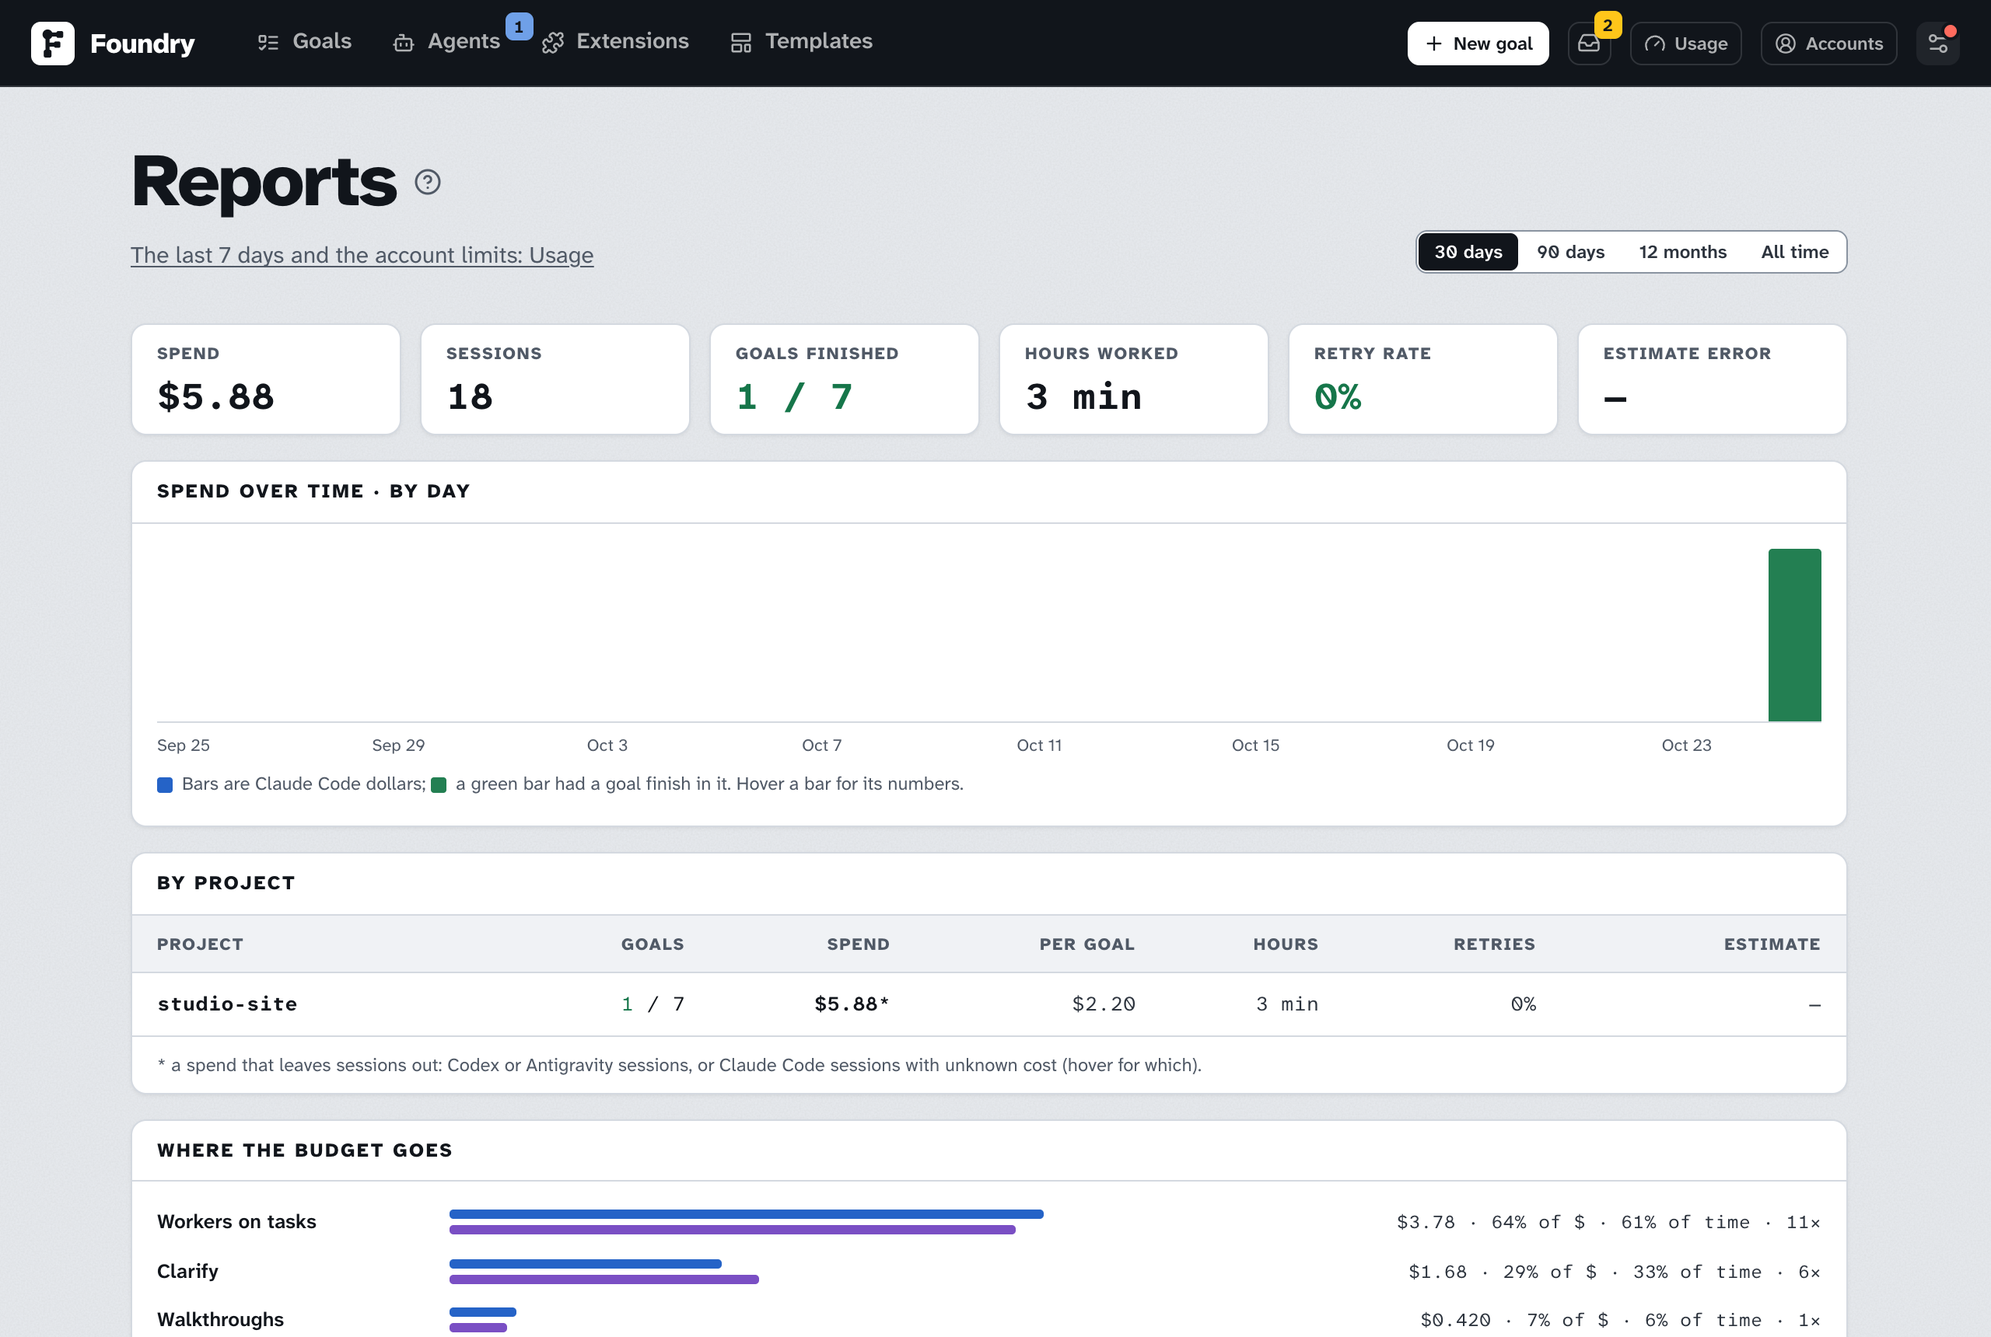
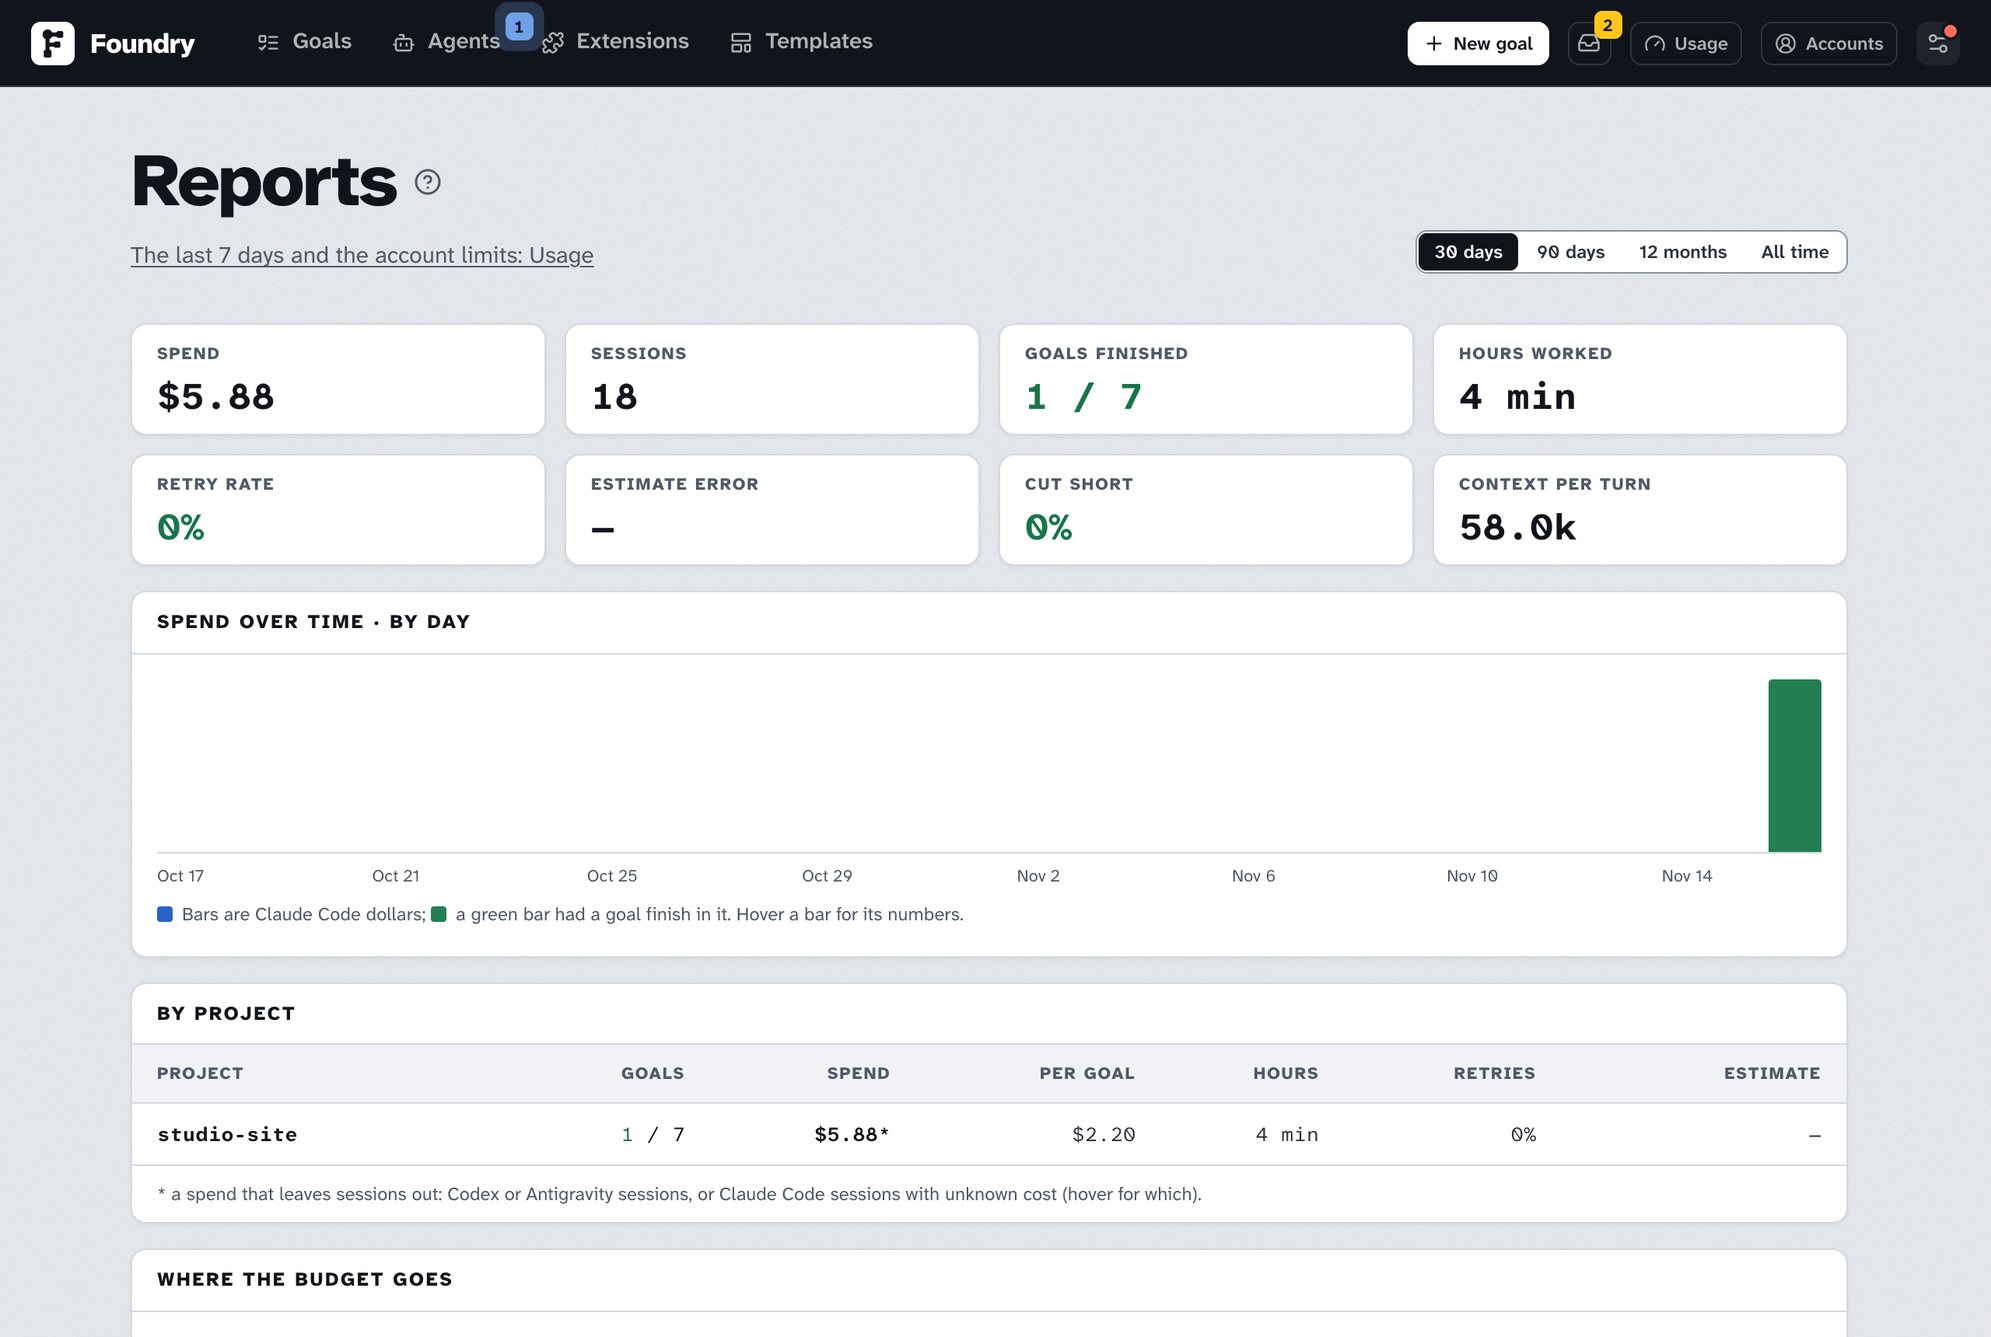
feat(web): show the time cut short and the context per turn on Reports and in foundry report
Reports gains two figures, eight in two rows of four: cut short (red past 15%, with the count per limit on hover) and context per turn (with the starting context on hover, pointing at Lean sessions); foundry report prints both when the server sends them. The guide describes them in English and Chinese, and its screenshot is regenerated from the seeded demo, whose sessions now carry a turn context.

diff --git a/apps/web/src/pages/ReportsPage.tsx b/apps/web/src/pages/ReportsPage.tsx
@@ -1,12 +1,12 @@
 import { ChartColumn, Gauge } from 'lucide-react';
-import type { Report, ReportEstimate, ReportFactor, ReportRepo } from '@foundry/engine/usage-types';
+import type { Report, ReportContext, ReportCuts, ReportEstimate, ReportFactor, ReportRepo } from '@foundry/engine/usage-types';
 import { useEffect, useState, type ReactNode } from 'react';
 import { Link } from 'react-router-dom';
 import { api } from '../api.ts';
 import { useLive } from '../store.ts';
 import { BOARD_HEAD, ButtonGroup, Card, Empty, EmptyState, Loading, PageHeader, cn, fmtUsd } from '../ui.tsx';
 import { HelpLink } from './HelpPage.tsx';
-import { Kpi, SERIES } from './UsagePage.tsx';
+import { Kpi, SERIES, fmtK } from './UsagePage.tsx';
 
 type Window = '30' | '90' | '365' | 'all';
 const WINDOWS: { id: Window; label: string; title: string }[] = [
@@ -51,6 +51,18 @@ const partial = (s: { unmeasured: number; codexSessions: number }) =>
   [s.unmeasured ? `${s.unmeasured} Claude Code session${s.unmeasured === 1 ? '' : 's'} with unknown cost left out` : '', s.codexSessions ? `${s.codexSessions} Codex or Antigravity session${s.codexSessions === 1 ? '' : 's'} report no cost` : ''].filter(Boolean).join('; ');
 /** a retry rate past which a project retries too much: the figure turns red */
 const RETRIES_HIGH = 0.3;
+/** a share of session time in sessions cut short past which limits cost too much: the figure turns red */
+const CUTS_HIGH = 0.15;
+const plural = (n: number, one: string) => `${n} ${one}${n === 1 ? '' : 's'}`;
+/** what stopped the sessions cut short, by limit */
+const cutsHint = (c: ReportCuts) =>
+  c.sessions
+    ? `${plural(c.sessions, 'session')} stopped by a limit before finishing (${fmtMin(c.durationMs / 60_000)}): ${[c.byLimit.time ? `${c.byLimit.time} at the time limit` : '', c.byLimit.idle ? `${c.byLimit.idle} after five silent minutes` : '', c.byLimit.turns ? `${c.byLimit.turns} at the turn cap` : '', c.byLimit.cost ? `${c.byLimit.cost} at the cost cap` : ''].filter(Boolean).join(', ')}. Each resumes with its whole context read again.`
+    : 'no session was stopped by a limit';
+const contextHint = (c: ReportContext) =>
+  c.perTurn == null
+    ? 'what one model turn reads; recorded for Claude Code sessions from this version on'
+    : `what one model turn of a Claude Code session read on average — every turn reads its whole context again — over ${plural(c.turns, 'turn')} of ${plural(c.sessions, 'session')}${c.atStart != null ? `; sessions started with ${fmtK(c.atStart)}` : ''}. Lean sessions (Settings → Skills) lowers the start.`;
 
 /** a chart's key: a small square in a series' colour, before the words that name it */
 const Swatch = ({ className }: { className: string }) => <span aria-hidden="true" className={cn('mr-1.5 inline-block h-2.5 w-2.5 rounded-[2px] align-[-0.1em]', className)} />;
@@ -123,7 +135,7 @@ export function ReportView({ report: r }: { report: Report }) {
   const starved = partial(t);
   return (
     <div className="space-y-4">
-      <div className="grid grid-cols-2 md:grid-cols-3 lg:grid-cols-6 gap-3">
+      <div className="grid grid-cols-2 md:grid-cols-4 gap-3">
         <Kpi label="spend" value={fmtUsd(t.costUsd)} hint={`Claude Code estimates${starved ? `; ${starved}` : ''}`} />
         <Kpi label="sessions" value={String(t.sessions)} hint={`${fmtMin(t.durationMs / 60_000)} in sessions`} />
         {/* how the goals came out and how often tasks retried, in their signals: green while none failed and the retries
@@ -132,6 +144,9 @@ export function ReportView({ report: r }: { report: Report }) {
         <Kpi label="hours worked" value={fmtMin(t.activeMin)} hint="Foundry's working time on those goals, waits for you left out" />
         <Kpi label="retry rate" value={pct(t.retries.rate)} hint={`${t.retries.retried} of ${t.retries.tasks} attempted tasks needed more than one attempt (${t.retries.attempts} attempts); ${t.retries.fixTasks} fix task${t.retries.fixTasks === 1 ? '' : 's'}`} good={t.retries.rate != null && t.retries.rate <= RETRIES_HIGH} bad={t.retries.rate != null && t.retries.rate > RETRIES_HIGH} />
         <Kpi label="estimate error" value={factors(t.estimate)} hint={`actual ÷ the Brief's estimate, the median over ${t.estimate.samples} goal${t.estimate.samples === 1 ? '' : 's'} with one: cost / time`} />
+        {/* where the time and the tokens go: sessions a limit stopped (each resumes and reads its context again), and what every turn reads */}
+        <Kpi label="cut short" value={pct(t.cuts.share)} hint={cutsHint(t.cuts)} good={t.cuts.share != null && t.cuts.share <= CUTS_HIGH} bad={t.cuts.share != null && t.cuts.share > CUTS_HIGH} />
+        <Kpi label="context per turn" value={t.context.perTurn == null ? '—' : fmtK(t.context.perTurn)} hint={contextHint(t.context)} />
       </div>
 
       {/* spend in the blue of every spend chart (a series); green, the signal of what is done, where a goal finished */}

diff --git a/apps/web/tests/ReportsPage.test.tsx b/apps/web/tests/ReportsPage.test.tsx
@@ -12,7 +12,7 @@ const report: Report = {
   now: '2026-10-21T12:00:00Z',
   window: { days: 90, from: '2026-07-23T12:00:00Z', to: '2026-10-21T12:00:00Z' },
   step: 'week',
-  totals: { ...spend, goals: { total: 4, finished: 3, failed: 1, cancelled: 0, open: 0 }, activeMin: 150, retries, estimate, noGoal: { sessions: 1, costUsd: 0.1, unmeasured: 0, codexSessions: 0, durationMs: 60_000 } },
+  totals: { ...spend, goals: { total: 4, finished: 3, failed: 1, cancelled: 0, open: 0 }, activeMin: 150, retries, estimate, noGoal: { sessions: 1, costUsd: 0.1, unmeasured: 0, codexSessions: 0, durationMs: 60_000 }, cuts: { sessions: 3, durationMs: 1_200_000, share: 0.33, byLimit: { time: 2, idle: 1, turns: 0, cost: 0 } }, context: { perTurn: 81_200, atStart: 47_600, sessions: 9, turns: 410 } },
   series: [{ t: '2026-10-05T00:00:00.000Z', label: 'Oct 5', sessions: 5, costUsd: 8, finished: 1 }, { t: '2026-10-12T00:00:00.000Z', label: 'Oct 12', sessions: 7, costUsd: 10.5, finished: 2 }],
   repos: [{ repoPath: '/home/me/alpha', name: 'alpha', ...spend, goals: { total: 4, finished: 3, failed: 1, cancelled: 0, open: 0 }, activeMin: 150, costPerFinishedGoal: 6.17, retries, estimate }],
   kinds: [{ kind: 'attempt', sessions: 10, costUsd: 16, unmeasured: 1, codexSessions: 0, durationMs: 3_000_000, costShare: 0.86, timeShare: 0.83 }, { kind: 'review-goal', sessions: 2, costUsd: 2.5, unmeasured: 0, codexSessions: 0, durationMs: 600_000, costShare: 0.14, timeShare: 0.17 }],
@@ -42,6 +42,13 @@ test('the report shows the window numbers, the spend by week, each project, the 
   expect(h).toContain('no goal (probes, setup, goals since deleted)');
   expect(h).toContain('1 Claude Code session with unknown cost left out');
   expect(h).toContain(report.note);
+  // where time and tokens go: the session time cut short by a limit (red past 15%), and what a turn reads
+  expect(h).toContain('cut short');
+  expect(h).toContain('33%');
+  expect(h).toContain('3 sessions stopped by a limit before finishing (20 min): 2 at the time limit, 1 after five silent minutes.');
+  expect(h).toContain('context per turn');
+  expect(h).toContain('81.2k');
+  expect(h).toContain('over 410 turns of 9 sessions; sessions started with 47.6k');
   expect(kindLabel('qa')).toBe('Browser QA');
   expect(kindLabel('something-new')).toBe('something-new');
 });
@@ -49,4 +56,10 @@ test('the report shows the window numbers, the spend by week, each project, the 
 test('a window with nothing in it says so', () => {
   const empty: Report = { ...report, totals: { ...report.totals, sessions: 0, costUsd: 0, goals: { total: 0, finished: 0, failed: 0, cancelled: 0, open: 0 }, noGoal: { sessions: 0, costUsd: 0, unmeasured: 0, codexSessions: 0, durationMs: 0 } }, series: [], repos: [], kinds: [], misses: [] };
   expect(html(empty)).toContain('Nothing ran in this window');
+});
+
+test('before any session recorded its turns, context per turn says so instead of showing a number', () => {
+  const h = html({ ...report, totals: { ...report.totals, cuts: { sessions: 0, durationMs: 0, share: 0, byLimit: { time: 0, idle: 0, turns: 0, cost: 0 } }, context: { perTurn: null, atStart: null, sessions: 0, turns: 0 } } });
+  expect(h).toContain('recorded for Claude Code sessions from this version on');
+  expect(h).toContain('no session was stopped by a limit');
 });

diff --git a/apps/cli/src/main.test.ts b/apps/cli/src/main.test.ts
@@ -177,7 +177,7 @@ describe('CLI report (ADR-0060)', () => {
     const estimate = { cost: { factor: 1.4, samples: 3, spread: 'tight' }, time: null, samples: 3 };
     const fixture = {
       now: '2026-10-21T12:00:00Z', window: { days: 90, from: '2026-07-23T12:00:00Z', to: '2026-10-21T12:00:00Z' }, step: 'week',
-      totals: { ...spend, goals: { total: 4, finished: 3, failed: 1, cancelled: 0, open: 0 }, activeMin: 150, retries, estimate, noGoal: { sessions: 0, costUsd: 0, unmeasured: 0, codexSessions: 0, durationMs: 0 } },
+      totals: { ...spend, goals: { total: 4, finished: 3, failed: 1, cancelled: 0, open: 0 }, activeMin: 150, retries, estimate, noGoal: { sessions: 0, costUsd: 0, unmeasured: 0, codexSessions: 0, durationMs: 0 }, cuts: { sessions: 3, durationMs: 1_200_000, share: 0.33, byLimit: { time: 2, idle: 1, turns: 0, cost: 0 } }, context: { perTurn: 81_200, atStart: 47_600, sessions: 9, turns: 410 } },
       series: [], repos: [{ repoPath: '/x/alpha', name: 'alpha', ...spend, goals: { total: 4, finished: 3, failed: 1, cancelled: 0, open: 0 }, activeMin: 150, costPerFinishedGoal: 6.17, retries, estimate }],
       kinds: [{ kind: 'attempt', sessions: 10, costUsd: 16, unmeasured: 1, codexSessions: 0, durationMs: 3_000_000, costShare: 0.86, timeShare: 0.83 }], misses: [], note: 'From the sessions Foundry started on this machine.',
     };
@@ -197,6 +197,8 @@ describe('CLI report (ADR-0060)', () => {
       expect(exitCode).toBe(0);
       expect(asked).toBe('/api/reports?days=90');
       expect(stdout).toContain('Last 90 days: $18.50 (Claude Code)  12 sessions  3/4 goals finished (1 failed, 0 cancelled)  2.5 h worked');
+      expect(stdout).toContain('cut short: 33% of session time (3 sessions stopped by a limit: 2 time, 1 idle, 0 turn cap, 0 cost cap)');
+      expect(stdout).toContain('context per turn: 81.2k tokens (Claude Code, 410 turns of 9 sessions; started with 47.6k)');
       expect(stdout).toContain('retries: 20% of 10 tasks needed more than one attempt; 1 fix tasks');
       expect(stdout).toContain('estimates: cost ×1.4, time — (actual ÷ estimate over 3 goals with one)');
       expect(stdout).toContain('  alpha: $18.50  3/4 finished  2.5 h  retries 20%  estimate ×1.4/—');

diff --git a/apps/cli/src/main.ts b/apps/cli/src/main.ts
@@ -591,6 +591,11 @@ switch (cmd) {
     console.log(`${r.window.days == null ? 'All time' : `Last ${r.window.days} days`}: ${usd(t.costUsd)} (Claude Code)  ${t.sessions} sessions  ${t.goals.finished}/${t.goals.total} goals finished (${t.goals.failed} failed, ${t.goals.cancelled} cancelled)  ${hours(t.activeMin)} worked`);
     console.log(`retries: ${pct(t.retries.rate)} of ${t.retries.tasks} tasks needed more than one attempt; ${t.retries.fixTasks} fix tasks`);
     console.log(`estimates: cost ${factor(t.estimate.cost)}, time ${factor(t.estimate.time)} (actual ÷ estimate over ${t.estimate.samples} goal${t.estimate.samples === 1 ? '' : 's'} with one)`);
+    // a server from before these were reported sends neither
+    const c = t.cuts;
+    if (c) console.log(`cut short: ${pct(c.share)} of session time (${c.sessions} session${c.sessions === 1 ? '' : 's'} stopped by a limit: ${c.byLimit.time} time, ${c.byLimit.idle} idle, ${c.byLimit.turns} turn cap, ${c.byLimit.cost} cost cap)`);
+    const x = t.context;
+    if (x) console.log(x.perTurn == null ? 'context per turn: — (recorded for Claude Code sessions from this version on)' : `context per turn: ${fmtK(x.perTurn)} tokens (Claude Code, ${x.turns} turns of ${x.sessions} sessions${x.atStart != null ? `; started with ${fmtK(x.atStart)}` : ''})`);
     if (r.repos.length) {
       console.log('by project:');
       for (const p of r.repos) console.log(`  ${p.name}: ${usd(p.costUsd)}  ${p.goals.finished}/${p.goals.total} finished  ${hours(p.activeMin)}  retries ${pct(p.retries.rate)}  estimate ${factor(p.estimate.cost)}/${factor(p.estimate.time)}`);

diff --git a/scripts/demo.ts b/scripts/demo.ts
@@ -393,7 +393,8 @@ class DemoRunner implements ClaudeRunner {
       }
       if (!applyEdits(spec.cwd, title)) writeFileSync(join(spec.cwd, `${label.replace(/\W+/g, '-')}.txt`), 'demo');
     }
-    const result: RunResult = { sessionId, subtype: 'success', isError: false, costUsd: 0.42, numTurns: 7, durationMs: 90_000, usage: null, modelUsage: null, permissionDenials: [], finalText: title ? `Done: ${title}. The change is in place with its tests; bun test passes (14 tests) and the build is clean.` : 'done', structuredOutput, exitCode: 0, pid: null, rateLimit: null, errorMessage: null, skillsUsed: [], toolsUsed: {} };
+    // what its seven turns read, for the Reports page's context per turn
+    const result: RunResult = { sessionId, subtype: 'success', isError: false, costUsd: 0.42, numTurns: 7, durationMs: 90_000, usage: null, modelUsage: null, permissionDenials: [], finalText: title ? `Done: ${title}. The change is in place with its tests; bun test passes (14 tests) and the build is clean.` : 'done', structuredOutput, exitCode: 0, pid: null, rateLimit: null, errorMessage: null, skillsUsed: [], toolsUsed: {}, context: { turns: 7, tokens: 406_000, first: 41_000 } };
     const events: RunnerEvent[] = title ? workerEvents(title, result.sessionId!, result, spec.cwd) : [
       { kind: 'hook', name: 'SessionStart:startup', outcome: 'success' },
       { kind: 'init', sessionId: result.sessionId!, model: spec.model ?? null, tools: [], raw: {} },

diff --git a/docs/guide/costs-and-usage.md b/docs/guide/costs-and-usage.md
@@ -94,16 +94,18 @@ Before the switch turns on, Foundry shows what the provider's terms say. Anthrop
 
 ## Reports
 
-![Reports: spend over time, by project and by session kind, with the retry rate and the estimate error — demonstration data](images/reports.png)
+![Reports: spend over time, by project and by session kind, with the retry rate, the estimate error, the time cut short and the context per turn — demonstration data](images/reports.png)
 
-**⚙ → Reports** looks further back than the Usage page, from Foundry's own session records: the last 30 days, 90 days, 12 months or all time. Six numbers at the top — the spend, the sessions, goals finished of those started, the hours Foundry worked, the retry rate and the estimate error — and four parts:
+**⚙ → Reports** looks further back than the Usage page, from Foundry's own session records: the last 30 days, 90 days, 12 months or all time. Eight numbers at the top — the spend, the sessions, goals finished of those started, the hours Foundry worked, the retry rate, the estimate error, the time cut short and the context per turn — and four parts:
 
 - **Spend over time**: Claude Code dollars per day, week or month (the step follows the window), with how many goals finished in each.
 - **By project**: for every folder goals ran in — how many finished, failed or were cancelled, what they cost and what a finished goal cost on average, the hours Foundry worked, the retry rate and how far the Brief's estimates ran from what the goals came to.
 - **Where the budget goes**: each kind of session — the workers on tasks, task reviews, Clarify, planning, goal reviews, merge attempts, audits, browser QA, docs, probes — with its share of the dollars and of the time.
 - **Estimate misses**: the goals whose cost or time ran furthest from their Brief's estimate, too much or too little. The factors are the ones [calibration](./approving-the-brief.md#estimate-and-budget) corrects new estimates with: actual ÷ estimate, the median over the goals that had an estimate.
 
-Goals count by when they were created, sessions by when they ran. The retry rate is the share of attempted tasks that needed more than one attempt; fix tasks (a review's, an audit's, CI's, the browser QA's or a review comment's) are counted beside it. Dollars are Claude Code's estimates, as everywhere in Foundry: Codex reports none, and a session cut before it reported a cost is left out and counted as unknown. From the command line: `foundry report --days 90` (`--all`, `--json`).
+Goals count by when they were created, sessions by when they ran. The retry rate is the share of attempted tasks that needed more than one attempt; fix tasks (a review's, an audit's, CI's, the browser QA's or a review comment's) are counted beside it.
+
+Two numbers say where time and tokens go. **cut short** is the share of the session time spent in sessions a limit stopped before they finished: the attempt timeout, five minutes with nothing on the stream while no tool call ran, the turn cap or the cost cap (see [Limits](./settings.md#limits)). A stopped session is resumed, but it reads its whole context again and repeats what it was doing, so a high share costs both; hover it to see which limit stopped how many. **context per turn** is what one model turn of a Claude Code session read on average: every turn reads the whole conversation again, starting with what the session loaded before its prompt (Claude Code's own instructions and tools, your MCP servers, claude.ai connectors and skills, Foundry's prompt). Hover it for what sessions started with; [Lean sessions](./settings.md#skills) lowers that start. It counts sessions recorded from this version on. Dollars are Claude Code's estimates, as everywhere in Foundry: Codex reports none, and a session cut before it reported a cost is left out and counted as unknown. From the command line: `foundry report --days 90` (`--all`, `--json`).
 
 ## Image goals need an image key
 
